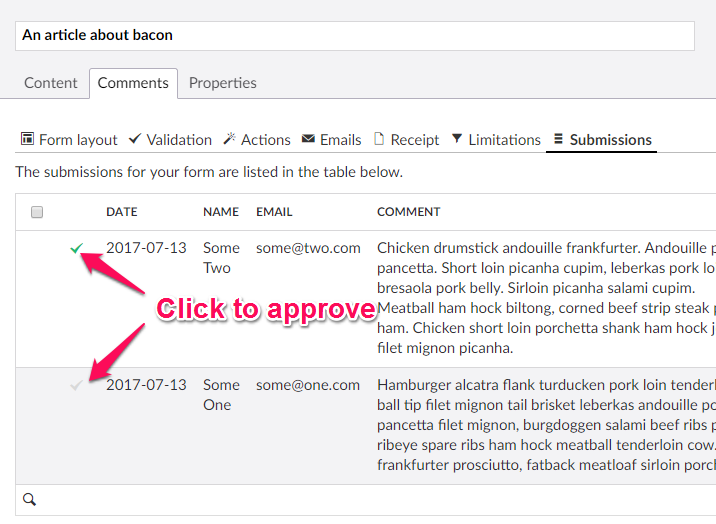
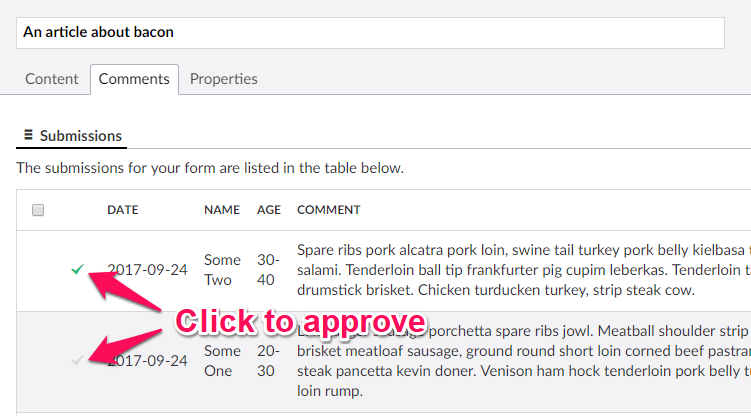
Rewrite for content templates

diff --git a/Tutorials/Approval.md b/Tutorials/Approval.md
@@ -1,14 +1,16 @@
-# Tutorial: Introduction to approval
+# Tutorial: Comments with moderation
 
-This tutorial demonstrates how you can put the approval system in Form Editor to use. 
+In this tutorial we'll create a comment section for an article, and use the approval system in Form Editor to let the editors moderate the comments. Since it's all built into Form Editor, you won't have to write a single line of custom code to make this happen.
 
-We'll create a comment section for an article, and use the approval system to let the editors moderate the comments. Since it's all built into Form Editor, you won't have to write a single line of custom code to make this happen.
+We'll also utilize the *Content Templates* feature introduced in Umbraco 7.7 to create a hassle-free workflow for the editors.
 
 Let's get to it, shall we?
 
 ## Setting up
 
-Before we start, you need to install Form Editor and create a Form Editor data type (check the [quick start tutorial](QuickStart.md) or the [installation documentation](../Docs/install.md) for details). When you create the data type, enable the option "Use submission approval" - this activates the approval system.
+Before we start, you need to install Form Editor and create a Form Editor data type (check the [quick start tutorial](QuickStart.md) or the [installation documentation](../Docs/install.md) for details). 
+
+### Creating the document type
 
 Create a document type called *Article* and add:
 
@@ -16,24 +18,52 @@ Create a document type called *Article* and add:
 2. A property named *Heading* of type *Textstring* on the *Content* tab.
 3. A property named *Body text* of type *Richtext editor* on the *Content* tab.
 4. A tab named *Comments*. This tab will contain the comments form.
-5. A property named *Form* on the *Comments* tab.
+5. A property named *Form* of type *Form Editor* on the *Comments* tab.
+
+The final result should look something like this:
 
 ![The Article document type](img/Approval/article-document-type.png)
 
-## Creating the first article
+### Creating the content template
 
-Now go to the content section and create an *Article* page. Fill out the article content on the *Content* and then switch to the *Comments* tab. 
+Once the document type is done, create a content template for it and name it *Article with comments*. We'll use this to ensure that all our *Article* pages are created with a correctly configured comments form.
 
-Create your comments form on the *Layout* tab of the *Form* property. You can add all the rows and fields you want, but for the sake of this tutorial, make sure you at least add:
+On the *Comments* tab of the content template, create the form layout you'd like for the comments form. You can add all the rows and fields you want, but for the sake of this tutorial, make sure you at least add:
 
 * A *Name* field (of type Textbox).
 * A *Comment* field (of type Text area).
 
-![The comments form layout](img/Approval/comments-form-layout.png)
+![The comments form layout](img/Approval/article-content-template-form-layout.png)
 
-Finally go to the *Receipt* tab of the *Form* property and enter a suitable receipt message.
+Now go to the *Receipt* tab of the *Form* property and enter a suitable receipt message.
 
-![The comments form receipt](img/Approval/comments-form-receipt.png)
+![The comments form receipt](img/Approval/article-content-template-form-receipt.png)
+
+### Configuring and locking down Form Editor
+
+We need to make a few changes to the Form Editor data type. First and foremost we need to enable the option "Use submission approval" - this activates the approval system:
+
+![Enable submission approval](img/Approval/data-type-submission-approval.png)
+
+Using the content template we'll have a correctly configured comments form with each new article that's created. We don't really want the editors messing around with it - they should only be concerned with moderating the submitted comments. Fortunately we can lock down Form Editor to only show the *Submissions* to the editors by configuring the *Tab order and availability*:
+
+![Tab order and availability](img/Approval/data-type-tab-availability.png)
+
+*Note: This also influences the tabs available when editing the content template. If you need to change the form configuration in the content template later on, you'll have to enable the tabs temporarily until you're done changing things.*
+
+## Creating an article
+
+Go to the content section and create an *Article* page using the *Article with comments* content template: 
+
+![Using the content template](img/Approval/using-the-content-template.png)
+
+Fill out the article content on the *Content* tab and then switch to the *Comments* tab. As expected, only the *Submissions* tab is visible:
+
+![Creating an article](img/Approval/creating-an-article.png)
+
+Behind the scenes, the content template has created the correct form layout and configuration for us. In other words: *The editors don't have to do a thing!* When they create an article, they need only focus on the content, and of course the subsequent comments moderation. 
+
+That's awesome! Content templates rock!
 
 ## Rendering the article
 
@@ -115,18 +145,24 @@ The following code listing contains the entire template for the *Article* page. 
 </html>
 ```
 
+Paste this code into your *Article* template, and then go have a look at the article you created. 
+
 ## Approving the comments
 
-When you have submitted comments to the article, they'll need approving before they're shown on the site. You do this on the *Submissions* tab of the *Form* property by clicking the checkmarks. When they turn green, the submission is approved. 
+When you have submitted some comments to the article, they'll need approving before they're shown alongside the article. 
 
-![Approving the submissions form receipt](img/Approval/approve-submissions.png)
+Go back to the *Comments* tab and approve the submissions by clicking the checkmarks. When they turn green, the submission is approved. 
 
-Now go back and view the article. It should show the approved comments between the article content and the comments form.
+![Approving the submissions](img/Approval/approve-submissions.png)
+
+Now go back and view the article. The approved comments should appear between the article content and the comments form.
 
 ![Article with comments](img/Approval/article-with-comments.png)
 
 ## Wrapping up
 
-This was just a quick introduction to the approval system. Hopefully it sparks some ideas on how to put it to use. 
+This tutorial has shown one way of using the approval system in Form Editor. Hopefully you'll find other clever ways to put it to good use. 
 
-The solution that's outlined here relies on having the editors add specific fields to the comments form. If you're looking for ways to improve this, you could take a look at [this](Ratings.md) tutorial, or more specifically [part three](RatingsPartThree.md) of it.
+By now you should also have an idea of just how awesome content templates are, and how they introduce a whole new way of utilizing forms. 
+
+Happy coding!
